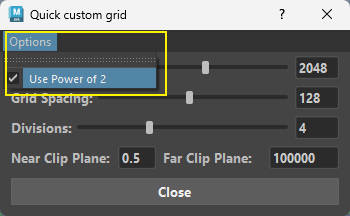
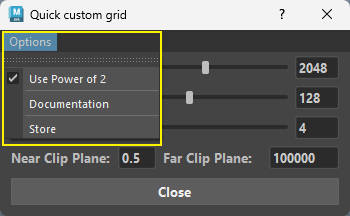
updated documentation
added Documentation page and store in the options menu bar

Changed region(s): [[0.0, 0.1111, 0.4857, 0.6944]]

diff --git a/docs/Quick Custom Grid/index.md b/docs/Quick Custom Grid/index.md
@@ -51,3 +51,6 @@ It features two distinct operating modes to suit different workflows: a standard
 
     This ensures the tool remembers your "Power of 2" preference the next time you open it.
 
+* <span style="color:rgb(144, 137, 235);">Documentation</span> - Opens a link to the documentation.
+
+* <span style="color:rgb(144, 137, 235);">Store</span> - Opens links to the Artstation and Gumroad store.
